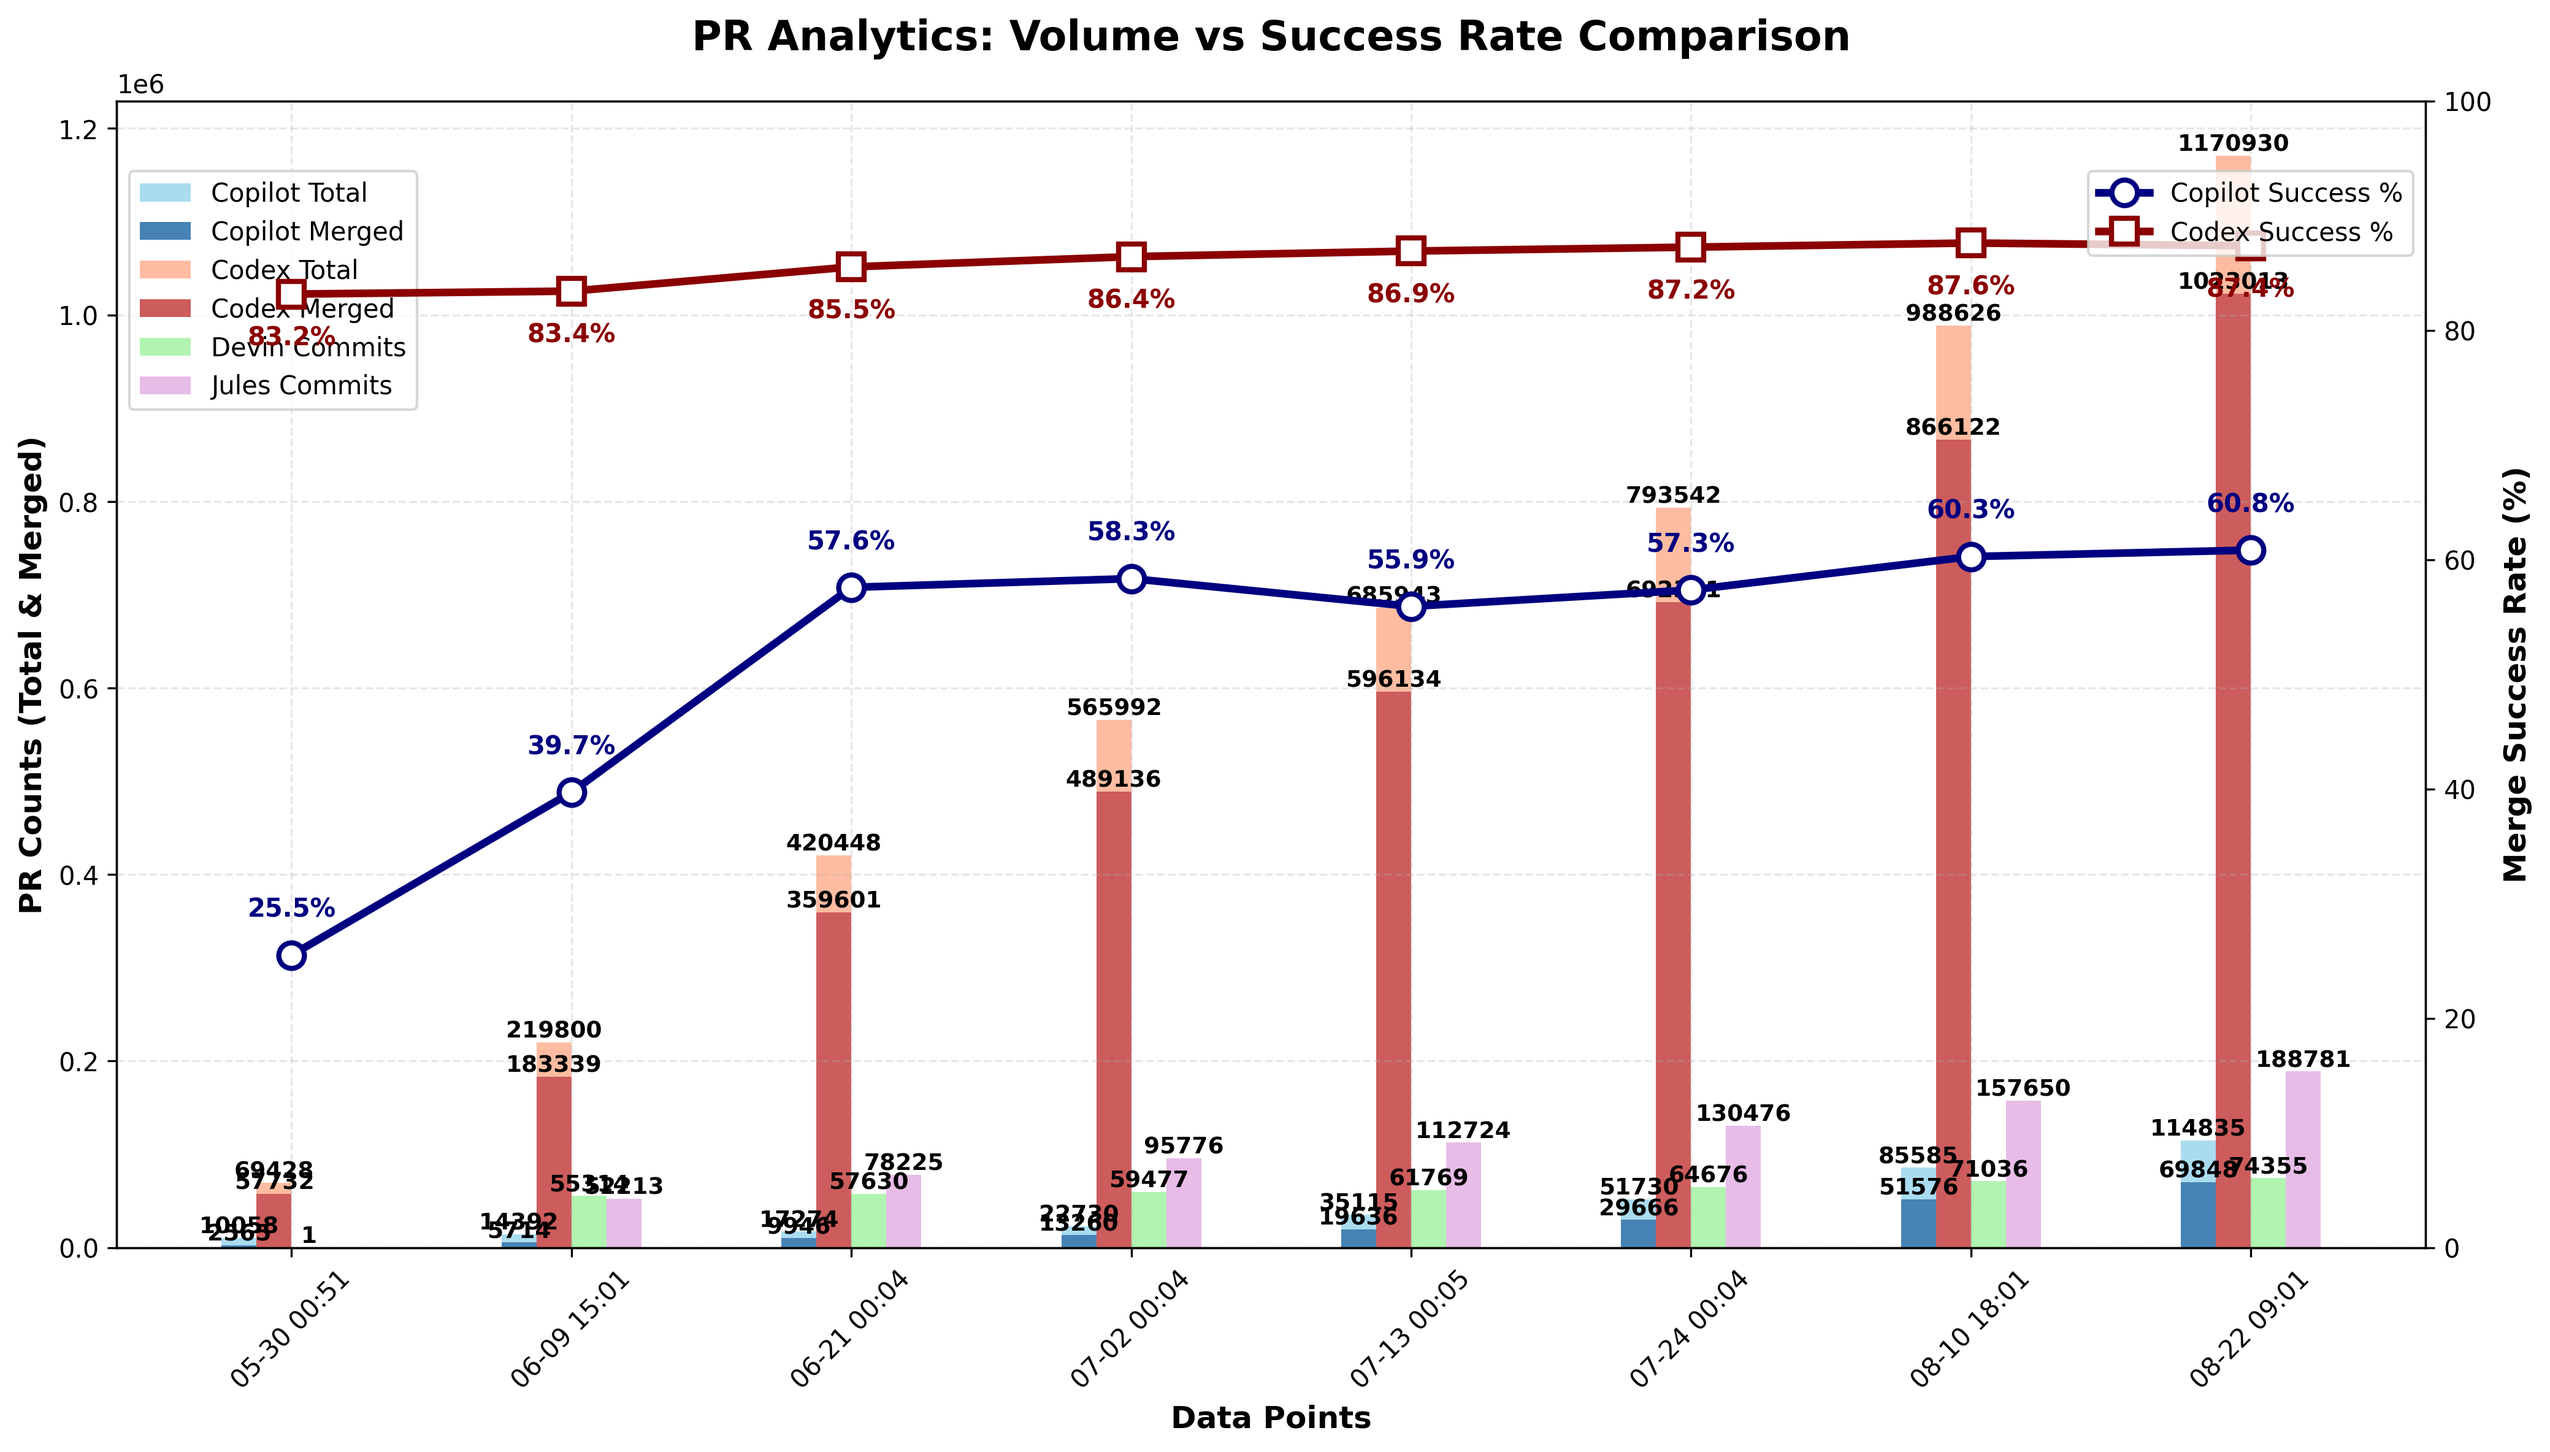
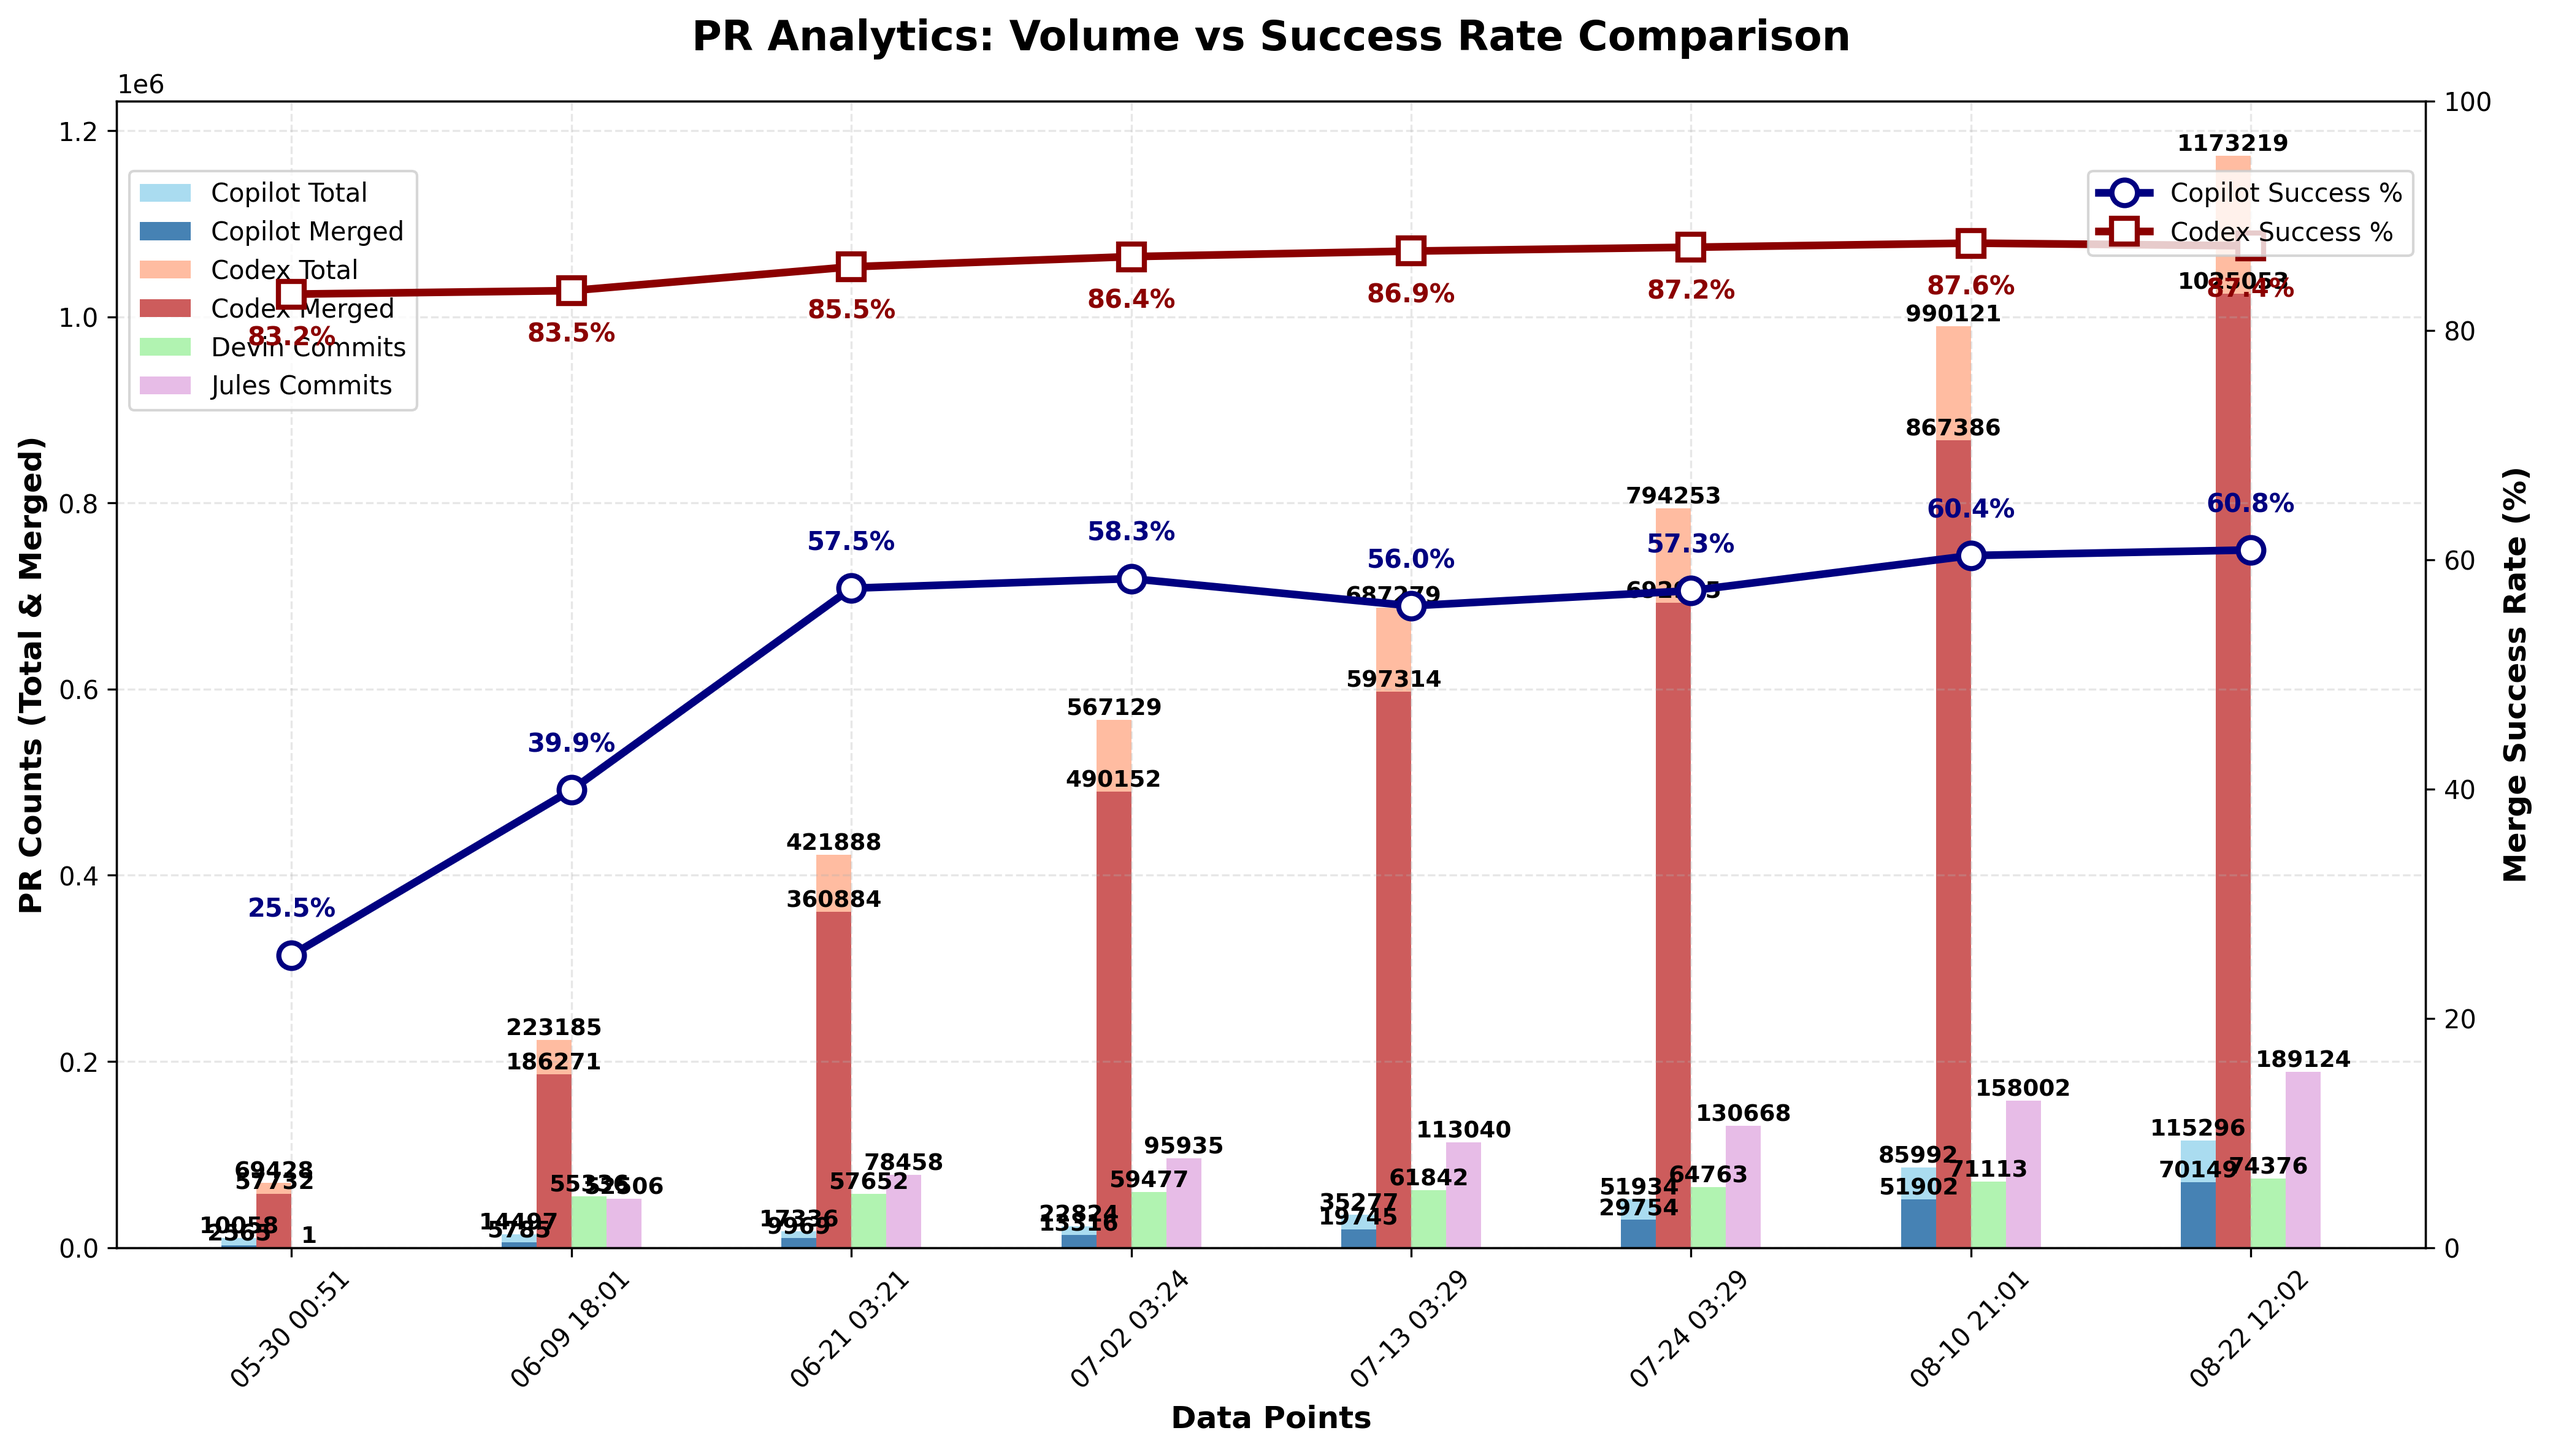
chore: update PR‑approval chart

diff --git a/docs/index.html b/docs/index.html
@@ -663,6 +663,7 @@
                         <td>N/A</td>
                         <td>N/A</td>
                         <td>N/A</td>
+                        <td>N/A</td>
                     </tr>
                     <tr>
                         <td>Codex</td>
@@ -1284,27 +1285,28 @@
                         <td>N/A</td>
                         <td>N/A</td>
                         <td>N/A</td>
+                        <td>N/A</td>
                     </tr>
                 <tr>
                         <td>Devin</td>
                         <td>N/A</td>
                         <td>N/A</td>
                         <td>N/A</td>
-                        <td>74,355</td>
+                        <td>74,376</td>
                     </tr>
                     <tr>
                         <td>Jules</td>
                         <td>N/A</td>
                         <td>N/A</td>
                         <td>N/A</td>
-                        <td>188,781</td>
+                        <td>189,124</td>
                     </tr>
                     </tbody>
             </table>
         </section>
 
         <footer>
-            <p>Last updated: <span id="last-updated">August 22, 2025 09:01 UTC</span></p>
+            <p>Last updated: <span id="last-updated">August 22, 2025 12:02 UTC</span></p>
             <p><a href="https://github.com/aavetis/ai-pr-watcher">View on GitHub</a></p>
         </footer>
     </div>

diff --git a/README.md b/README.md
@@ -19,7 +19,7 @@ Explore the GitHub search queries used:
 
 | Service | Total PRs | Merged PRs | Merge Rate | Total Commits |
 | ------- | --------- | ---------- | ---------- | ------------- |
-| Copilot | 114,835 | 69,848 | 60.82% | N/A           |
-| Codex   | 1,170,930 | 1,023,013 | 87.37% | N/A           |
-| Devin   | N/A       | N/A        | N/A        | 74,355 |
-| Jules   | N/A       | N/A        | N/A        | 188,781 |
+| Copilot | 115,296 | 70,149 | 60.84% | N/A           |
+| Codex   | 1,173,219 | 1,025,053 | 87.37% | N/A           |
+| Devin   | N/A       | N/A        | N/A        | 74,376 |
+| Jules   | N/A       | N/A        | N/A        | 189,124 |
